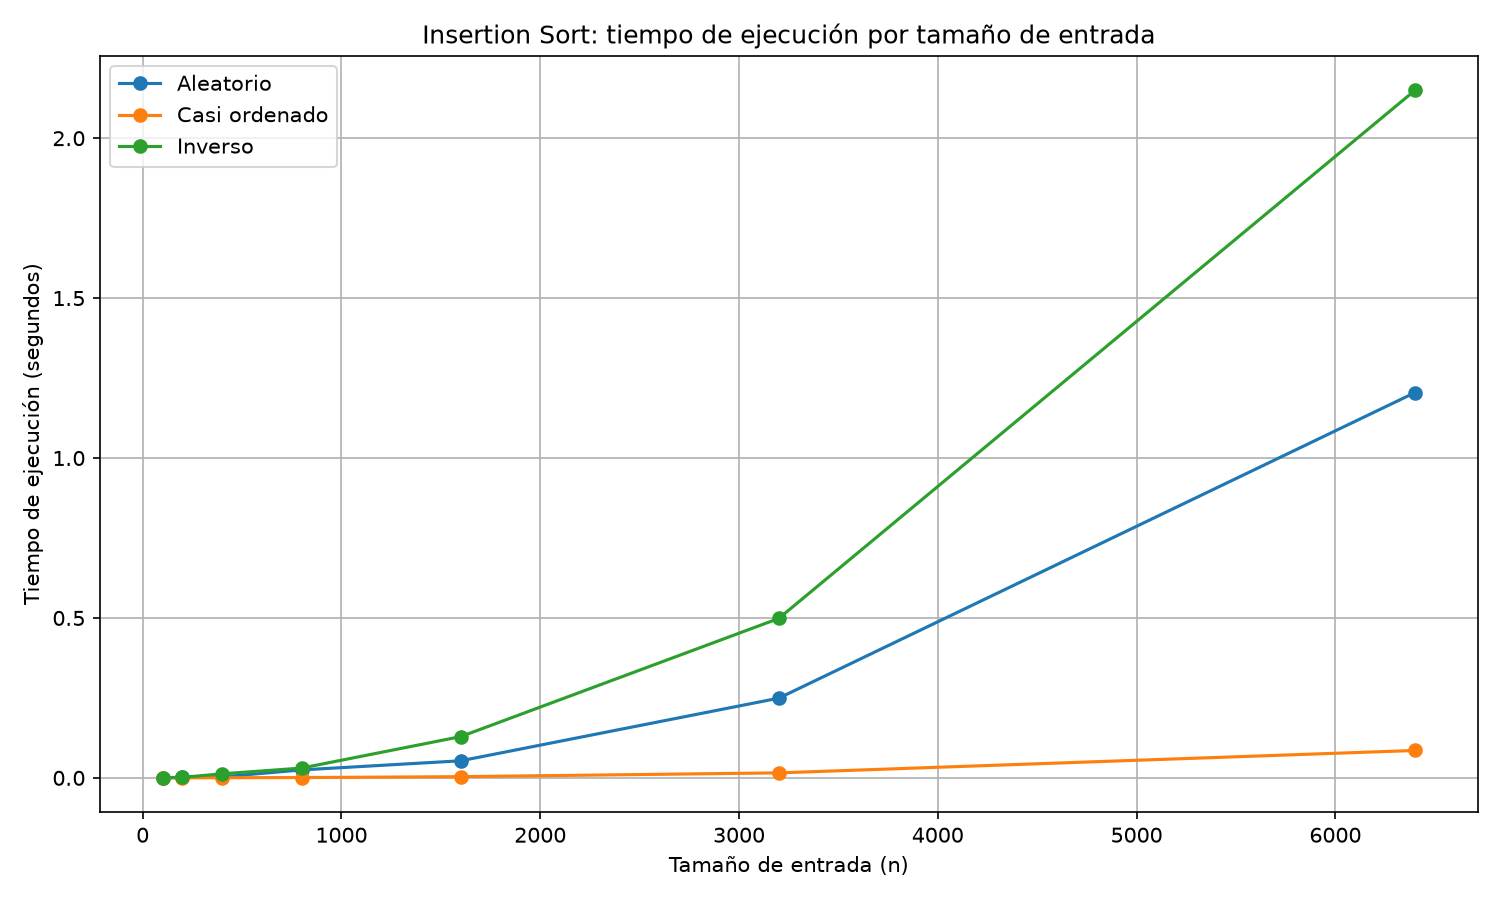
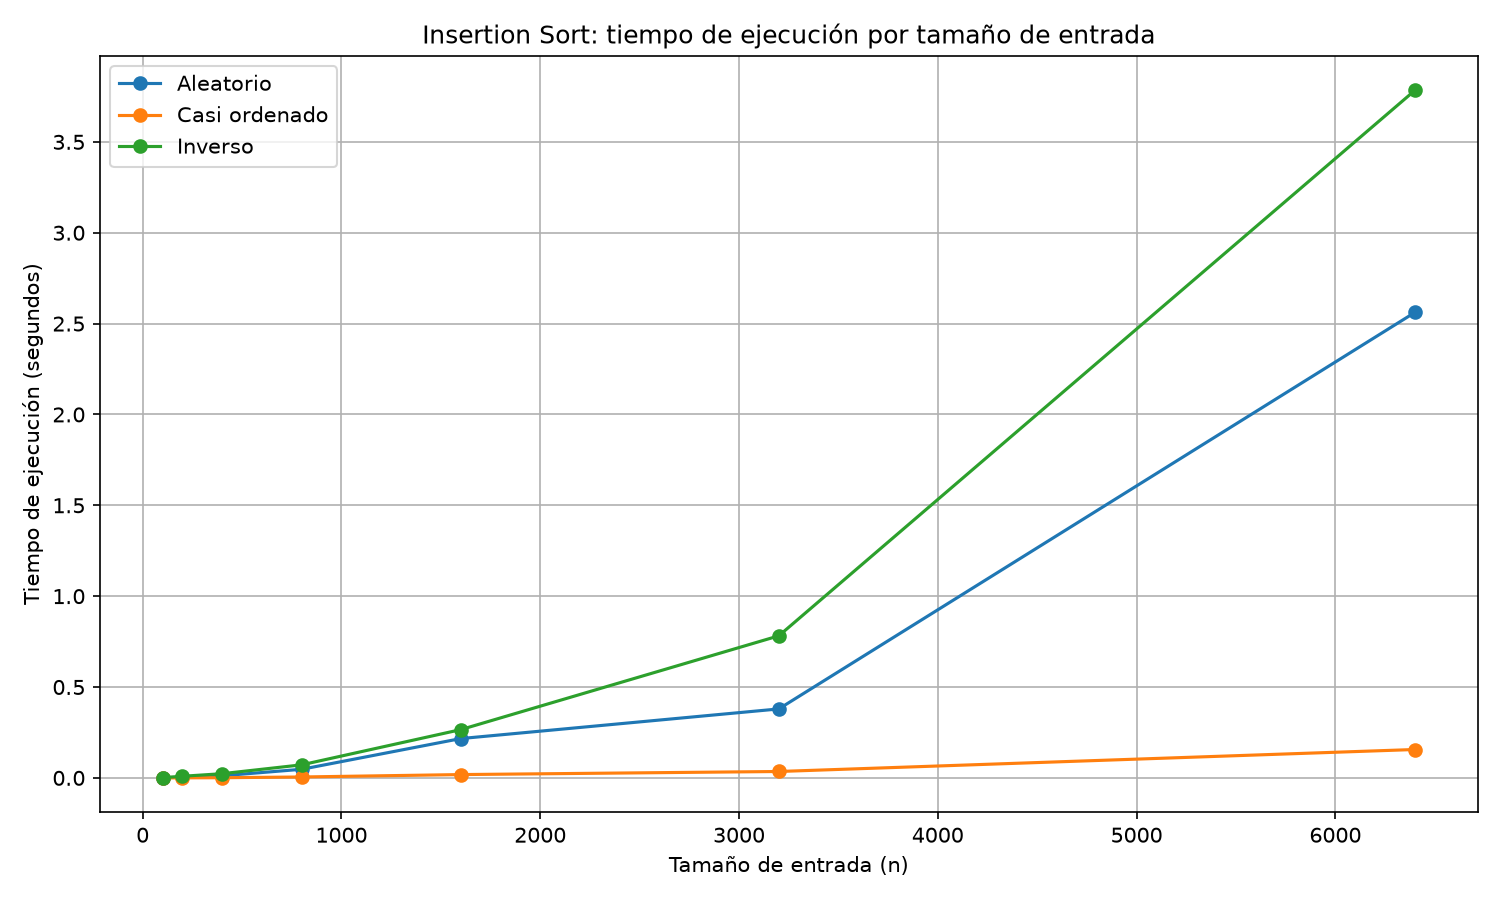
Alinear generadores, actualizar README y regenerar gráficas

diff --git a/laboratorios/lab1-fundamentos-complejidad-recurrencias/datos.py b/laboratorios/lab1-fundamentos-complejidad-recurrencias/datos.py
@@ -34,8 +34,9 @@ def generar_aleatorio(n: int, semilla: int = 42) -> List[int]:
 def generar_casi_ordenado(n: int, semilla: int = 42) -> List[int]:
     """Genera una lista casi ordenada.
 
-    Construye una lista donde el 98% de los primeros elementos están en orden
-    ascendente y el 2% final contiene nuevos registros mezclados (con semilla).
+    Construye una lista donde el 98% de los primeros elementos están en el orden
+    que espera `insertion_sort` (descendente) y el 2% final contiene nuevos
+    registros mezclados (con semilla).
 
     Args:
         n: Tamaño de la lista a generar.
@@ -47,7 +48,7 @@ def generar_casi_ordenado(n: int, semilla: int = 42) -> List[int]:
     cantidad_ordenada = int(n * 0.98)
     cantidad_nueva = n - cantidad_ordenada
 
-    datos_ordenados = list(range(1, cantidad_ordenada + 1))
+    datos_ordenados = list(range(cantidad_ordenada, 0, -1))
 
     # Generar nuevos valores distintos y mezclarlos
     datos_nuevos = list(range(cantidad_ordenada + 1, cantidad_ordenada + cantidad_nueva + 1))
@@ -59,12 +60,12 @@ def generar_casi_ordenado(n: int, semilla: int = 42) -> List[int]:
 
 
 def generar_inverso(n: int) -> List[int]:
-    """Genera la lista 1..n en orden inverso (mayor a menor).
+    """Genera la lista 1..n en el orden opuesto al que espera `insertion_sort`.
 
     Args:
         n: Tamaño de la lista a generar.
 
     Returns:
-        Lista de enteros en orden inverso.
+        Lista de enteros en orden ascendente.
     """
-    return list(range(n, 0, -1))
+    return list(range(1, n + 1))

diff --git a/laboratorios/lab1-fundamentos-complejidad-recurrencias/README.md b/laboratorios/lab1-fundamentos-complejidad-recurrencias/README.md
@@ -14,6 +14,12 @@ Desde la raíz del repositorio:
 .venv\Scripts\activate
 ```
 
+En macOS o Linux:
+
+```bash
+source .venv/bin/activate
+```
+
 ### Ejecutar Parte 3
 
 ```bash
